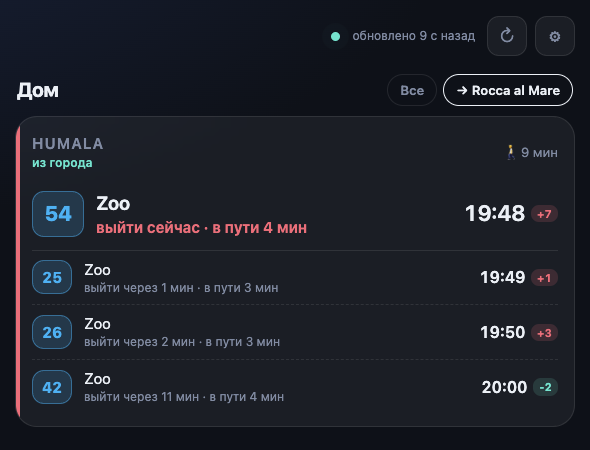
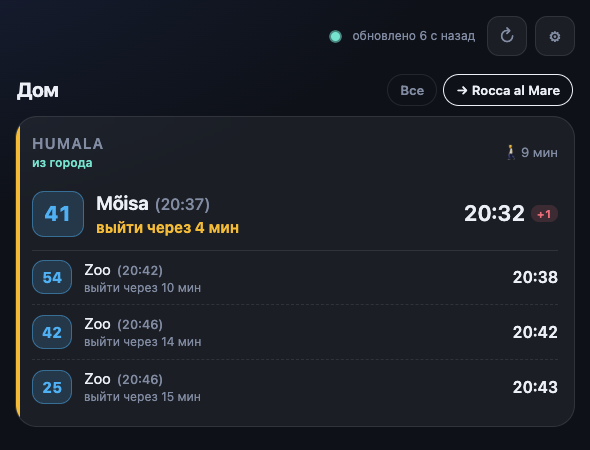
Show departure time big, arrival in parentheses; rename backup buttons

diff --git a/src/main.ts b/src/main.ts
@@ -159,9 +159,9 @@ function stopCard(loc: LocationCfg, stop: StopCfg, goal: GoalCfg | undefined, id
   const list = rows.slice(0, 1 + MAX_EXTRA_ROWS).map(r => `
     <li>
       ${badge(r)}
-      <span class="dest">${esc(r.arrive ? r.arrive.stopName : r.dep.dest)}</span>
-      <span class="when">${fmtClock(r.arrive ? r.arrive.sec : r.dep.expected)}${delayTag(r.delaySec)}</span>
-      <span class="in">${leaveText(r.leaveInSec)}${r.arrive ? ` · в пути ${Math.round(r.arrive.travelSec / 60)} мин` : ''}</span>
+      <span class="dest"><span class="dn">${esc(r.arrive ? r.arrive.stopName : r.dep.dest)}</span>${r.arrive ? `<span class="arr" title="Прибытие">(${fmtClock(r.arrive.sec)})</span>` : ''}</span>
+      <span class="when">${fmtClock(r.dep.expected)}${delayTag(r.delaySec)}</span>
+      <span class="in">${leaveText(r.leaveInSec)}</span>
     </li>`).join('');
   return shell(`<ul class="rows">${list}</ul>`, lvl);
 }
@@ -221,12 +221,12 @@ function editor(): string {
       <button class="btn primary" data-act="add-loc">＋ Локация</button>
       <div class="sec-title">Резервная копия</div>
       <div class="io">
-        <button class="btn" data-act="share-link">🔗 Ссылка</button>
-        <button class="btn" data-act="export-file">⬇ Файл</button>
-        <button class="btn" data-act="import-file">⬆ Загрузить</button>
+        <button class="btn" data-act="share-link">🔗 Поделиться</button>
+        <button class="btn" data-act="export-file">⬇ Экспорт</button>
+        <button class="btn" data-act="import-file">⬆ Импорт</button>
       </div>
-      ${loadPrev() ? '<button class="btn ghost" data-act="restore-prev">↩ Вернуть настройки, которые были до последней загрузки</button>' : ''}
-      <p class="hint muted">Настройки хранятся только в этом браузере. Ссылка содержит их все: откройте её на другом устройстве или отправьте другу – предложат импортировать.</p>
+      ${loadPrev() ? '<button class="btn ghost" data-act="restore-prev">↩ Вернуть настройки, которые были до последнего импорта</button>' : ''}
+      <p class="hint muted">Настройки хранятся только в этом браузере. «Поделиться» создаёт ссылку со всеми настройками: откройте её на другом устройстве или отправьте другу – предложат импортировать. «Экспорт» сохраняет файл, «Импорт» загружает его.</p>
       <footer class="about">
         ${KOFI_URL ? `<a class="kofi" href="${esc(KOFI_URL)}" target="_blank" rel="noopener">☕ Поддержать на Ko-fi</a>` : ''}
         <p class="muted">Данные: <a href="https://transport.tallinn.ee" target="_blank" rel="noopener">transport.tallinn.ee</a> · Карта © <a href="https://www.openstreetmap.org/copyright" target="_blank" rel="noopener">OpenStreetMap</a></p>
@@ -337,7 +337,7 @@ function describe(c: Config): string {
 
 async function offerImport(next: Config, source: string) {
   const have = cfg.locations.length ? `Текущие настройки (${describe(cfg)}) будут заменены, но их можно вернуть.` : '';
-  if (confirm(`Загрузить настройки из ${source}? ${describe(next)}. ${have}`)) { replaceConfig(next); view = 'dash'; render(); updateLive(); }
+  if (confirm(`Импортировать настройки из ${source}? ${describe(next)}. ${have}`)) { replaceConfig(next); view = 'dash'; render(); updateLive(); }
 }
 
 // ---------- render ----------
@@ -428,7 +428,7 @@ async function onClick(e: MouseEvent) {
     }
     case 'restore-prev': {
       const prev = loadPrev();
-      if (prev && confirm('Вернуть настройки, которые были до последней загрузки? Текущие станут «предыдущими».')) replaceConfig(prev);
+      if (prev && confirm('Вернуть настройки, которые были до последнего импорта? Текущие станут «предыдущими».')) replaceConfig(prev);
       break;
     }
   }

diff --git a/src/style.css b/src/style.css
@@ -207,3 +207,8 @@ main { gap: 22px; }
 .about a { color: var(--muted); }
 .about .kofi { justify-self: center; padding: 10px 18px; border-radius: 12px; font-weight: 600; font-size: 14px; text-decoration: none; color: #1a1205; background: #ffb454; }
 .about .version { opacity: .7; }
+
+/* destination + (arrival time at the goal) */
+.rows .dest { display: flex; align-items: baseline; gap: 6px; min-width: 0; }
+.rows .dest .dn { min-width: 0; overflow: hidden; text-overflow: ellipsis; white-space: nowrap; }
+.rows .dest .arr { flex: none; color: var(--muted); font-weight: 500; font-size: .85em; font-variant-numeric: tabular-nums; }

diff --git a/README.md b/README.md
@@ -27,7 +27,7 @@
 - **«Куда еду».** Задайте цель, например торговый центр с несколькими остановками, и увидите только те рейсы, которые до неё доедут, и **во сколько вы будете на месте**. Звёздочкой ★ можно отметить предпочтительную остановку цели.
 - **Остановки на карте.** Не нужно знать названия: нажимаете на остановку на карте и видите, куда она идёт.
 - **Свой набор.** Несколько локаций (дом, работа), любое число остановок и целей, выбор нужных маршрутов, пометки на карточках.
-- **Резервная копия.** Настройки можно сохранить в файл, отправить ссылкой на другое устройство или другу, а загрузку отменить кнопкой «Вернуть предыдущие».
+- **Резервная копия.** Настройки можно «Поделиться» создаёт ссылку для другого устройства или друга, «Экспорт» и «Импорт» работают с файлом, а замену настроек можно отменить кнопкой «Вернуть предыдущие».
 - **Как приложение.** Откройте сайт на телефоне и выберите «На экран “Домой”»: появится иконка и полноэкранный режим.
 
 <div align="center">
